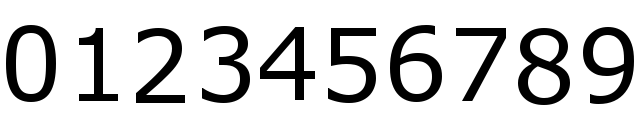
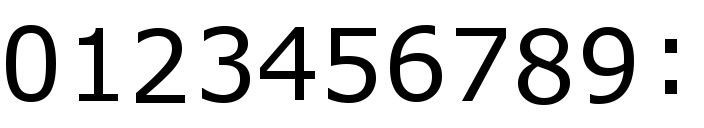
ゴールタイムに[:]を追加しました

Changed region(s): [[0.0, 0.1875, 1.0, 0.8438], [0.0312, 0.7812, 0.0625, 0.8125], [0.0312, 0.1875, 0.0625, 0.2188]]

diff --git a/trickleLibrary/OG2D/src/Task/Task_Result.cpp b/trickleLibrary/OG2D/src/Task/Task_Result.cpp
@@ -286,7 +286,7 @@ void Result::UI_Create()
 		if ((this->createtask.createflag & CreateFlag::Timeui) == CreateFlag::Timeui)
 		{
 			auto goaltime = GoalTimeUI::Create(Vec2(210 * aspect.x, 190 * aspect.y));
-			for (int i = 0; i < 4; ++i)
+			for (int i = 0; i < 5; ++i)
 			{
 				auto time = FrameTimeUI::Create(Vec2(goaltime->position.x * aspect.x + 20 + i * 64, 200 * aspect.y), i, FrameTime);
 			}
